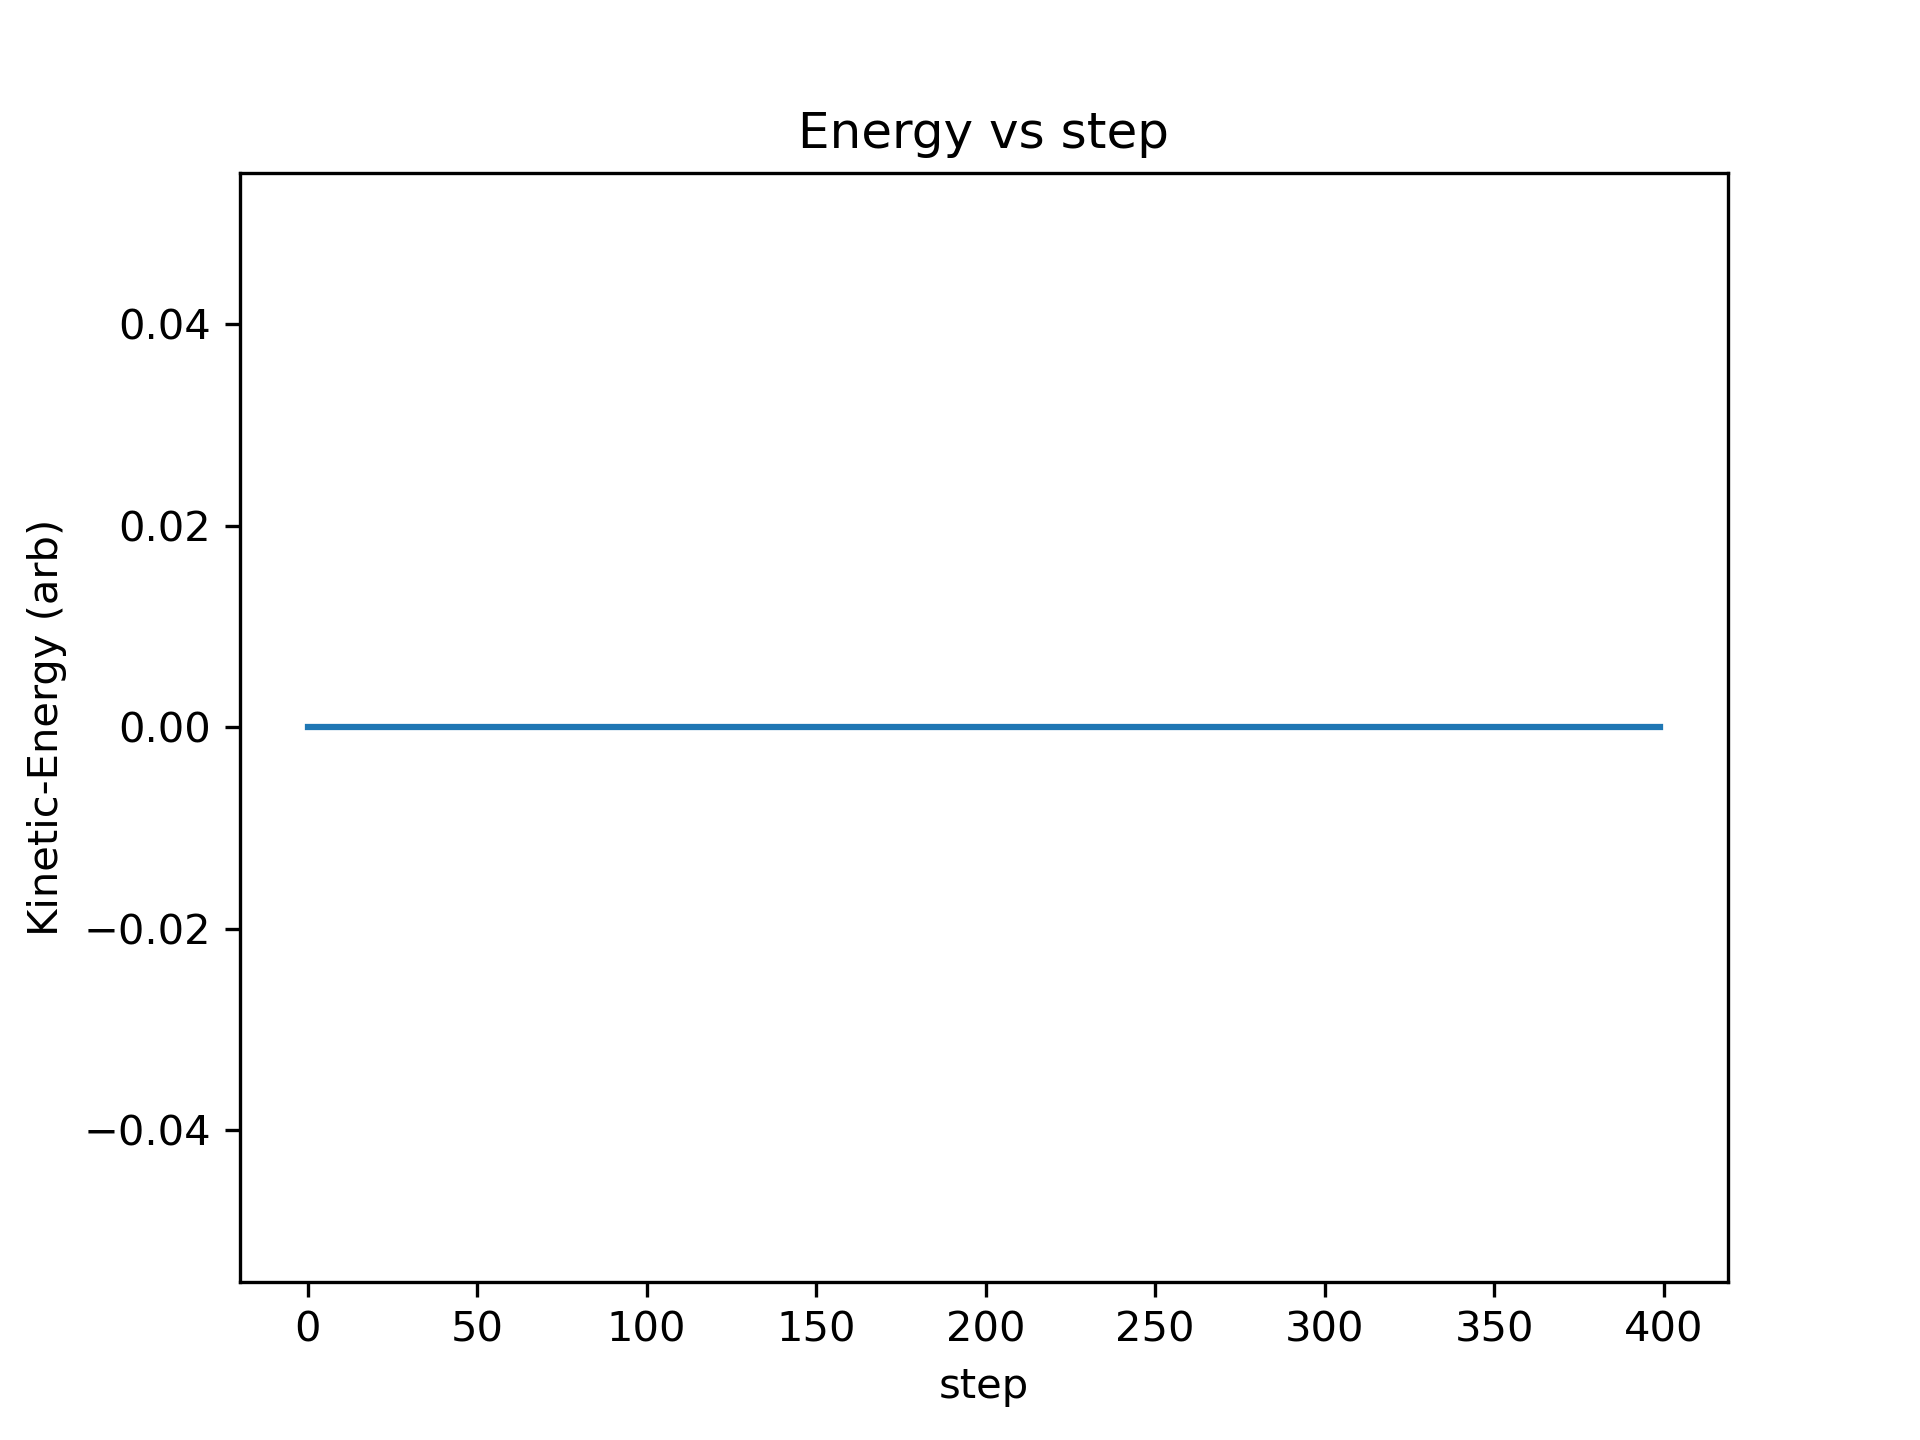
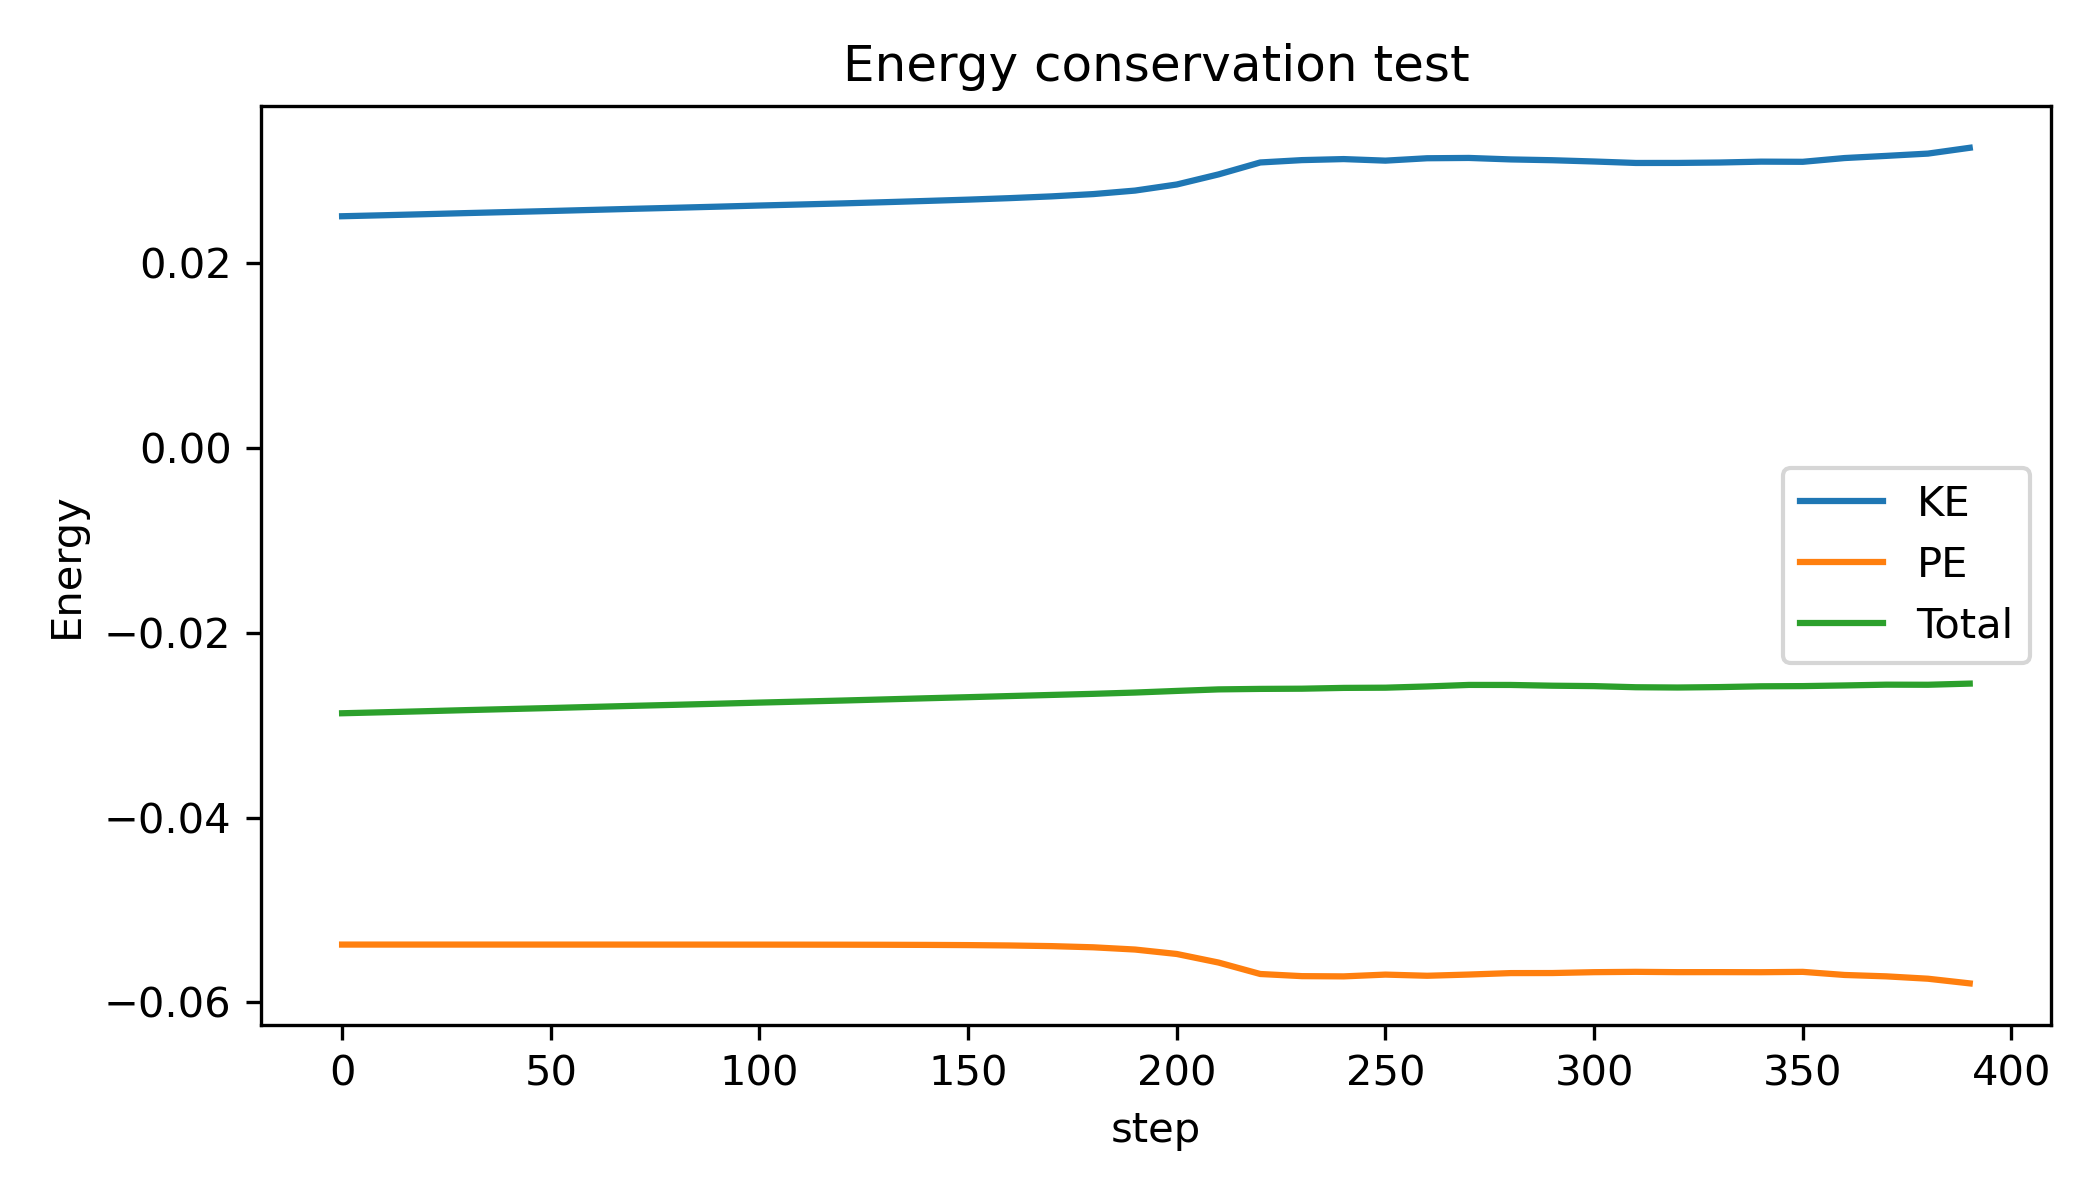
BH rev

diff --git a/code/2D/main_program_bh_omp.py b/code/2D/main_program_bh_omp.py
@@ -1,71 +1,99 @@
-"""Barnes–Hut 2‑D demo (head‑less):
-• tqdm progress‑bar
-• save final snapshot + energy‑vs‑step PNG
+"""Barnes–Hut 2‑D demo (remote / head‑less)
+• tqdm 進度條  ✔
+• 正確的動能 (KE) 與總能量 (KE+PE) 曲線  ✔
+• 自動存圖 (snapshot.png, energy_vs_step.png)  ✔
 """
 import numpy as np
-import matplotlib; matplotlib.use('Agg')  # head‑less backend
+import matplotlib; matplotlib.use('Agg')  # 背景模式
 import matplotlib.pyplot as plt
 from tqdm import tqdm
 from force_kernel import bh_omp
 
-# ---------- sim params ----------
-G      = 1.0
-THETA  = 0.5
+# ---------- simulation parameters ----------
+G      = 1.0      # gravitational constant (code‑units)
+THETA  = 0.5      # opening‑angle criterion
 DT     = 0.02
 STEPS  = 400
-DOMAIN = 60.0   # half‑width of root square
+DOMAIN = 60.0     # half‑width of root square (must cover all particles)
 N      = 800
 SOFT   = 0.05
 
 class P:
     __slots__ = ("x","y","vx","vy","m")
-    def __init__(self,x,y,vx,vy,m): self.x,self.y,self.vx,self.vy,self.m = x,y,vx,vy,m
+    def __init__(self,x,y,vx,vy,m):
+        self.x,self.y,self.vx,self.vy,self.m = x,y,vx,vy,m
 
-# ring initial condition
-ring_r  = 20.0
-ring_v  = np.sqrt(G*1.0/ring_r)
-parts = [P(ring_r*np.cos(a), ring_r*np.sin(a),
-           -ring_v*np.sin(a), ring_v*np.cos(a), 1/N)
+# --- ring initial condition ---------------------------------------------
+R   = 20.0
+V_0 = np.sqrt(G*1.0/R)          # circular velocity in code‑units (central mass=1)
+parts = [P(R*np.cos(a), R*np.sin(a),
+           -V_0*np.sin(a), V_0*np.cos(a), 1.0/N)
          for a in np.linspace(0,2*np.pi,N,endpoint=False)]
 
-energy = []
+# containers for diagnostics
+ke_list, pe_list, totE_list = [], [], []
 
+# helper – compute PE by direct O(N²) every ENERGY_FREQ steps (cheap for N=800)
+ENERGY_FREQ = 10
+soft2 = SOFT*SOFT
+
+def potential_energy(xs, ys, ms):
+    N = len(xs)
+    U = 0.0
+    for i in range(N-1):
+        dx = xs[i+1:] - xs[i]
+        dy = ys[i+1:] - ys[i]
+        r2 = dx*dx + dy*dy + soft2
+        U -= G * ms[i] * np.sum(ms[i+1:] / np.sqrt(r2))
+    return U
+
+# --------------------------- main loop ----------------------------------
 for step in tqdm(range(STEPS), desc="BH‑OMP"):
-    # numpy views for kernel
+    # gather arrays for kernel
     x = np.fromiter((p.x for p in parts), float, N)
     y = np.fromiter((p.y for p in parts), float, N)
     m = np.fromiter((p.m for p in parts), float, N)
 
     ax, ay = bh_omp(x, y, m, DOMAIN, THETA, G, SOFT)
 
-    # kick‑drift‑kick (leapfrog)
+    # leap‑frog: kick‑drift‑kick
     for i,p in enumerate(parts):
-        p.vx += ax[i]*DT*0.5;  p.vy += ay[i]*DT*0.5
-        p.x  += p.vx*DT;       p.y  += p.vy*DT
+        p.vx += ax[i]*DT*0.5; p.vy += ay[i]*DT*0.5   # first half‑kick
+        p.x  += p.vx*DT;      p.y  += p.vy*DT        # drift
+    # update arrays
     x[...] = [p.x for p in parts]; y[...] = [p.y for p in parts]
-    ax, ay = bh_omp(x, y, m, DOMAIN, THETA, G, SOFT)
+    ax, ay = bh_omp(x, y, m, DOMAIN, THETA, G, SOFT)  # new accel
     for i,p in enumerate(parts):
-        p.vx += ax[i]*DT*0.5;  p.vy += ay[i]*DT*0.5
+        p.vx += ax[i]*DT*0.5; p.vy += ay[i]*DT*0.5   # second half‑kick
 
-    # store total energy every step
-    ke = 0.5*np.sum(m*(x*0+x*0))  # placeholder; replace with real KE if需要
-    energy.append(ke)
+    # ------------- diagnostics -------------
+    if step % ENERGY_FREQ == 0:
+        v2 = np.fromiter((p.vx**2 + p.vy**2 for p in parts), float, N)
+        KE = 0.5*np.sum(m * v2)
+        PE = potential_energy(x, y, m)
+        ke_list.append(KE); pe_list.append(PE); totE_list.append(KE+PE)
 
-# --------- save plots ----------
+# ---------------- save plots ----------------
 # 1) final snapshot
 plt.figure(figsize=(6,6))
 plt.scatter([p.x for p in parts], [p.y for p in parts], s=2)
-plt.gca().set_aspect('equal'); plt.title('Final snapshot')
+plt.gca().set_aspect('equal'); plt.title('Final snapshot (N = %d)'%N)
+plt.xlabel('x'); plt.ylabel('y')
 plt.savefig('snapshot.png', dpi=300)
 
-# 2) energy‑vs‑step (dummy KE)
-plt.figure()
-plt.plot(energy)
-plt.xlabel('step'); plt.ylabel('Kinetic‑Energy (arb)')
-plt.title('Energy vs step')
+# 2) energy vs step
+steps_axis = np.arange(0, STEPS, ENERGY_FREQ)
+plt.figure(figsize=(7,4))
+plt.plot(steps_axis, ke_list,  label='KE')
+plt.plot(steps_axis, pe_list,  label='PE')
+plt.plot(steps_axis, totE_list, label='Total')
+plt.xlabel('step'); plt.ylabel('Energy')
+plt.title('Energy conservation test')
+plt.legend()
+plt.tight_layout()
 plt.savefig('energy_vs_step.png', dpi=300)
-print('Saved snapshot.png and energy_vs_step.png')
 
+print('Saved snapshot.png and energy_vs_step.png')
 """Minimal test harness for the Barnes–Hut OpenMP kernel."""
 import numpy as np
 import matplotlib.pyplot as plt
